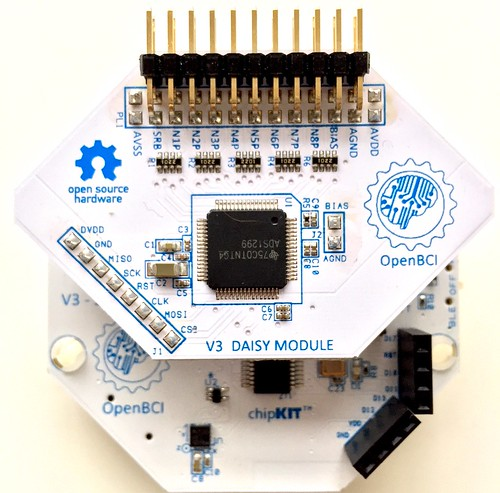
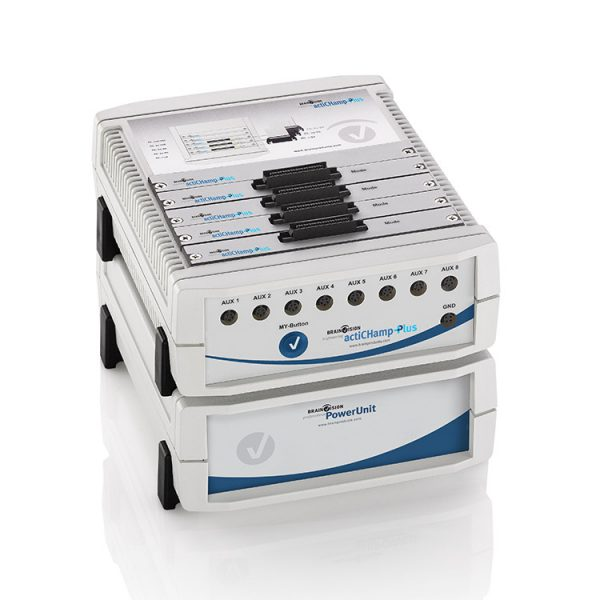
fix: LSL settings daemon<->tauri proxy, same pattern as EXG
- Rewrite daemon/lsl.ts to use daemonInvoke (gets Tauri fallback)
- Add LSL routes to invoke-proxy ROUTES map
- Add native daemon proxy Tauri commands for all LSL endpoints:
  lsl_discover, lsl_get_config, lsl_set_auto_connect, lsl_pair_stream,
  lsl_unpair_stream, lsl_get/set_idle_timeout, lsl_virtual_source_*,
  lsl_iroh_start/stop/status
- Add session control proxies: start_session (now #[tauri::command]),
  switch_session, cancel_session (were missing/broken)
- Add start_session/switch_session/cancel_session to invoke-proxy routes

diff --git a/src/lib/daemon/lsl.ts b/src/lib/daemon/lsl.ts
@@ -1,6 +1,6 @@
 // SPDX-License-Identifier: GPL-3.0-only
 
-import { daemonGet, daemonPost } from "./http";
+import { daemonInvoke } from "./invoke-proxy";
 
 export interface LslPairStreamRequest {
   sourceId: string;
@@ -31,17 +31,17 @@ interface LslDiscoverResponse {
 }
 
 export async function lslSetIdleTimeout(secs: number | null): Promise<void> {
-  await daemonPost("/v1/lsl/idle-timeout", { secs });
+  await daemonInvoke("lsl_set_idle_timeout", { secs });
 }
 
 export async function lslSetAutoConnect(enabled: boolean): Promise<void> {
-  await daemonPost("/v1/lsl/auto-connect", { enabled });
+  await daemonInvoke("lsl_set_auto_connect", { enabled });
 }
 
 export async function lslDiscover<T>(): Promise<T[]> {
   const [discovered, cfg] = await Promise.all([
-    daemonGet<LslDiscoverResponse[]>("/v1/lsl/discover"),
-    daemonGet<LslConfigResponse>("/v1/lsl/config").catch(() => ({ auto_connect: false, paired_streams: [] })),
+    daemonInvoke<LslDiscoverResponse[]>("lsl_discover"),
+    daemonInvoke<LslConfigResponse>("lsl_get_config").catch(() => ({ auto_connect: false, paired_streams: [] })),
   ]);
   const pairedIds = new Set(cfg.paired_streams.map((s) => s.source_id));
   const out = discovered.map((s) => ({
@@ -57,23 +57,23 @@ export async function lslDiscover<T>(): Promise<T[]> {
 }
 
 export async function lslConnect(name: string): Promise<void> {
-  await daemonPost("/v1/control/start-session", { target: `lsl:${name}` });
+  await daemonInvoke("start_session", { target: `lsl:${name}` });
 }
 
 export async function lslSwitchSession(name: string): Promise<void> {
-  await daemonPost("/v1/control/switch-session", { target: `lsl:${name}` });
+  await daemonInvoke("switch_session", { target: `lsl:${name}` });
 }
 
 export async function lslStartSecondary(name: string): Promise<void> {
-  await daemonPost("/v1/control/start-session", { target: `lsl:${name}` });
+  await daemonInvoke("start_session", { target: `lsl:${name}` });
 }
 
 export async function lslCancelSecondary(_sessionId: string): Promise<void> {
-  await daemonPost("/v1/control/cancel-session", {});
+  await daemonInvoke("cancel_session", {});
 }
 
 export async function lslPairStream(req: LslPairStreamRequest): Promise<void> {
-  await daemonPost("/v1/lsl/pair", {
+  await daemonInvoke("lsl_pair_stream", {
     source_id: req.sourceId,
     name: req.name,
     stream_type: req.streamType,
@@ -83,50 +83,50 @@ export async function lslPairStream(req: LslPairStreamRequest): Promise<void> {
 }
 
 export async function lslUnpairStream(sourceId: string): Promise<void> {
-  await daemonPost("/v1/lsl/unpair", { source_id: sourceId });
+  await daemonInvoke("lsl_unpair_stream", { source_id: sourceId });
 }
 
 export async function lslIrohStart<T>(): Promise<T> {
-  const out = await daemonPost<T>("/v1/lsl/iroh/start", {});
-  await daemonPost("/v1/control/start-session", { target: "lsl-iroh" }).catch(() => {});
+  const out = await daemonInvoke<T>("lsl_iroh_start", {});
+  await daemonInvoke("start_session", { target: "lsl-iroh" }).catch(() => {});
   return out;
 }
 
 export async function lslIrohStop(): Promise<void> {
-  await daemonPost("/v1/lsl/iroh/stop", {});
-  await daemonPost("/v1/control/cancel-session", {}).catch(() => {});
+  await daemonInvoke("lsl_iroh_stop", {});
+  await daemonInvoke("cancel_session", {}).catch(() => {});
 }
 
 export function lslIrohStatus<T>(): Promise<T> {
-  return daemonGet<T>("/v1/lsl/iroh/status");
+  return daemonInvoke<T>("lsl_iroh_status");
 }
 
 export async function lslVirtualSourceRunning(): Promise<boolean> {
-  const v = await daemonGet<{ running: boolean }>("/v1/lsl/virtual-source/running");
+  const v = await daemonInvoke<{ running: boolean }>("lsl_virtual_source_running");
   return !!v.running;
 }
 
 export async function lslStartVirtualSource(): Promise<boolean> {
-  const v = await daemonPost<{ started?: boolean }>("/v1/lsl/virtual-source/start", {});
+  const v = await daemonInvoke<{ started?: boolean }>("lsl_virtual_source_start", {});
   return !!v.started;
 }
 
 export async function lslStopVirtualSource(): Promise<boolean> {
-  const v = await daemonPost<{ was_running?: boolean }>("/v1/lsl/virtual-source/stop", {});
+  const v = await daemonInvoke<{ was_running?: boolean }>("lsl_virtual_source_stop", {});
   return !!v.was_running;
 }
 
 export function lslGetConfig<T>(): Promise<T> {
-  return daemonGet<T>("/v1/lsl/config");
+  return daemonInvoke<T>("lsl_get_config");
 }
 
 export async function lslGetIdleTimeout(): Promise<number | null> {
-  const v = await daemonGet<{ secs: number | null }>("/v1/lsl/idle-timeout");
+  const v = await daemonInvoke<{ secs: number | null }>("lsl_get_idle_timeout");
   return v.secs ?? null;
 }
 
 export function getStatus<T>(): Promise<T> {
-  return daemonGet<T>("/v1/status");
+  return daemonInvoke<T>("get_status");
 }
 
 export async function listSecondarySessions<T>(): Promise<T[]> {

diff --git a/src/lib/daemon/invoke-proxy.ts b/src/lib/daemon/invoke-proxy.ts
@@ -22,6 +22,9 @@ const ROUTES: Record<string, [typeof G | typeof P, string]> = {
   // Control
   retry_connect: [P, "/v1/control/retry-connect"],
   cancel_retry: [P, "/v1/control/cancel-retry"],
+  start_session: [P, "/v1/control/start-session"],
+  switch_session: [P, "/v1/control/switch-session"],
+  cancel_session: [P, "/v1/control/cancel-session"],
   lsl_cancel_secondary: [P, "/v1/control/cancel-session"],
 
   // Devices
@@ -148,6 +151,21 @@ const ROUTES: Record<string, [typeof G | typeof P, string]> = {
   get_hook_log_count: [G, "/v1/hooks/log-count"],
   suggest_hook_keywords: [P, "/v1/hooks/suggest-keywords"],
   suggest_hook_distances: [P, "/v1/hooks/suggest-distances"],
+
+  // LSL
+  lsl_discover: [G, "/v1/lsl/discover"],
+  lsl_get_config: [G, "/v1/lsl/config"],
+  lsl_set_auto_connect: [P, "/v1/lsl/auto-connect"],
+  lsl_pair_stream: [P, "/v1/lsl/pair"],
+  lsl_unpair_stream: [P, "/v1/lsl/unpair"],
+  lsl_get_idle_timeout: [G, "/v1/lsl/idle-timeout"],
+  lsl_set_idle_timeout: [P, "/v1/lsl/idle-timeout"],
+  lsl_virtual_source_running: [G, "/v1/lsl/virtual-source/running"],
+  lsl_virtual_source_start: [P, "/v1/lsl/virtual-source/start"],
+  lsl_virtual_source_stop: [P, "/v1/lsl/virtual-source/stop"],
+  lsl_iroh_start: [P, "/v1/lsl/iroh/start"],
+  lsl_iroh_stop: [P, "/v1/lsl/iroh/stop"],
+  lsl_iroh_status: [G, "/v1/lsl/iroh/status"],
 
   // DnD / Goals
   get_dnd_config: [G, "/v1/settings/dnd/config"],

diff --git a/src-tauri/src/daemon_cmds.rs b/src-tauri/src/daemon_cmds.rs
@@ -289,7 +289,8 @@ pub(crate) fn cancel_retry() -> Result<StatusResponse, String> {
     )
 }
 
-pub(crate) fn start_session(target: Option<String>) -> Result<StatusResponse, String> {
+#[tauri::command]
+pub fn start_session(target: Option<String>) -> Result<StatusResponse, String> {
     let base_url = daemon_base_url();
     let token = load_daemon_token()?;
     post_json_with_auth_response(
@@ -1119,3 +1120,130 @@ pub fn trigger_reembed() -> Result<serde_json::Value, String> {
     let token = load_daemon_token()?;
     post_json_with_auth_response(&base_url, &token, "/v1/models/trigger-reembed", &serde_json::json!({}))
 }
+
+// ── LSL daemon proxies ──────────────────────────────────────────────────────
+
+/// Proxy: GET /v1/lsl/discover
+#[tauri::command]
+pub fn lsl_discover() -> Result<serde_json::Value, String> {
+    let base_url = daemon_base_url();
+    let token = load_daemon_token()?;
+    fetch_json_with_auth(&base_url, &token, "/v1/lsl/discover")
+}
+
+/// Proxy: GET /v1/lsl/config
+#[tauri::command]
+pub fn lsl_get_config() -> Result<serde_json::Value, String> {
+    let base_url = daemon_base_url();
+    let token = load_daemon_token()?;
+    fetch_json_with_auth(&base_url, &token, "/v1/lsl/config")
+}
+
+/// Proxy: POST /v1/lsl/auto-connect
+#[tauri::command]
+pub fn lsl_set_auto_connect(enabled: bool) -> Result<serde_json::Value, String> {
+    let base_url = daemon_base_url();
+    let token = load_daemon_token()?;
+    post_json_with_auth_response(&base_url, &token, "/v1/lsl/auto-connect", &serde_json::json!({"enabled": enabled}))
+}
+
+/// Proxy: POST /v1/lsl/pair
+#[tauri::command]
+pub fn lsl_pair_stream(source_id: String, name: String, stream_type: String, channels: u32, sample_rate: f64) -> Result<serde_json::Value, String> {
+    let base_url = daemon_base_url();
+    let token = load_daemon_token()?;
+    post_json_with_auth_response(&base_url, &token, "/v1/lsl/pair", &serde_json::json!({
+        "source_id": source_id, "name": name, "stream_type": stream_type,
+        "channels": channels, "sample_rate": sample_rate
+    }))
+}
+
+/// Proxy: POST /v1/lsl/unpair
+#[tauri::command]
+pub fn lsl_unpair_stream(source_id: String) -> Result<serde_json::Value, String> {
+    let base_url = daemon_base_url();
+    let token = load_daemon_token()?;
+    post_json_with_auth_response(&base_url, &token, "/v1/lsl/unpair", &serde_json::json!({"source_id": source_id}))
+}
+
+/// Proxy: GET /v1/lsl/idle-timeout
+#[tauri::command]
+pub fn lsl_get_idle_timeout() -> Result<serde_json::Value, String> {
+    let base_url = daemon_base_url();
+    let token = load_daemon_token()?;
+    fetch_json_with_auth(&base_url, &token, "/v1/lsl/idle-timeout")
+}
+
+/// Proxy: POST /v1/lsl/idle-timeout
+#[tauri::command]
+pub fn lsl_set_idle_timeout(secs: serde_json::Value) -> Result<serde_json::Value, String> {
+    let base_url = daemon_base_url();
+    let token = load_daemon_token()?;
+    post_json_with_auth_response(&base_url, &token, "/v1/lsl/idle-timeout", &serde_json::json!({"secs": secs}))
+}
+
+/// Proxy: GET /v1/lsl/virtual-source/running
+#[tauri::command]
+pub fn lsl_virtual_source_running() -> Result<serde_json::Value, String> {
+    let base_url = daemon_base_url();
+    let token = load_daemon_token()?;
+    fetch_json_with_auth(&base_url, &token, "/v1/lsl/virtual-source/running")
+}
+
+/// Proxy: POST /v1/lsl/virtual-source/start
+#[tauri::command]
+pub fn lsl_virtual_source_start() -> Result<serde_json::Value, String> {
+    let base_url = daemon_base_url();
+    let token = load_daemon_token()?;
+    post_json_with_auth_response(&base_url, &token, "/v1/lsl/virtual-source/start", &serde_json::json!({}))
+}
+
+/// Proxy: POST /v1/lsl/virtual-source/stop
+#[tauri::command]
+pub fn lsl_virtual_source_stop() -> Result<serde_json::Value, String> {
+    let base_url = daemon_base_url();
+    let token = load_daemon_token()?;
+    post_json_with_auth_response(&base_url, &token, "/v1/lsl/virtual-source/stop", &serde_json::json!({}))
+}
+
+/// Proxy: POST /v1/lsl/iroh/start
+#[tauri::command]
+pub fn lsl_iroh_start() -> Result<serde_json::Value, String> {
+    let base_url = daemon_base_url();
+    let token = load_daemon_token()?;
+    post_json_with_auth_response(&base_url, &token, "/v1/lsl/iroh/start", &serde_json::json!({}))
+}
+
+/// Proxy: POST /v1/lsl/iroh/stop
+#[tauri::command]
+pub fn lsl_iroh_stop() -> Result<serde_json::Value, String> {
+    let base_url = daemon_base_url();
+    let token = load_daemon_token()?;
+    post_json_with_auth_response(&base_url, &token, "/v1/lsl/iroh/stop", &serde_json::json!({}))
+}
+
+/// Proxy: GET /v1/lsl/iroh/status
+#[tauri::command]
+pub fn lsl_iroh_status() -> Result<serde_json::Value, String> {
+    let base_url = daemon_base_url();
+    let token = load_daemon_token()?;
+    fetch_json_with_auth(&base_url, &token, "/v1/lsl/iroh/status")
+}
+
+/// Proxy: POST /v1/control/switch-session
+#[tauri::command]
+pub fn switch_session(target: String) -> Result<serde_json::Value, String> {
+    let base_url = daemon_base_url();
+    let token = load_daemon_token()?;
+    post_json_with_auth_response(&base_url, &token, "/v1/control/switch-session", &serde_json::json!({"target": target}))
+}
+
+/// Proxy: POST /v1/control/cancel-session
+#[tauri::command]
+pub fn cancel_session() -> Result<serde_json::Value, String> {
+    let base_url = daemon_base_url();
+    let token = load_daemon_token()?;
+    post_json_with_auth_response(&base_url, &token, "/v1/control/cancel-session", &serde_json::json!({}))
+}
+
+

diff --git a/src-tauri/src/lib.rs b/src-tauri/src/lib.rs
@@ -195,6 +195,12 @@ use daemon_cmds::{
     get_exg_catalog, get_eeg_model_config, get_eeg_model_status,
     set_eeg_model_config, trigger_weights_download, cancel_weights_download,
     estimate_reembed, trigger_reembed,
+    // LSL daemon proxies
+    lsl_discover, lsl_get_config, lsl_set_auto_connect, lsl_pair_stream,
+    lsl_unpair_stream, lsl_get_idle_timeout, lsl_set_idle_timeout,
+    lsl_virtual_source_running, lsl_virtual_source_start, lsl_virtual_source_stop,
+    lsl_iroh_start, lsl_iroh_stop, lsl_iroh_status,
+    start_session, switch_session, cancel_session,
 };
 
 mod settings_cmds;
@@ -1354,6 +1360,22 @@ pub fn run() {
             cancel_weights_download,
             estimate_reembed,
             trigger_reembed,
+            lsl_discover,
+            lsl_get_config,
+            lsl_set_auto_connect,
+            lsl_pair_stream,
+            lsl_unpair_stream,
+            lsl_get_idle_timeout,
+            lsl_set_idle_timeout,
+            lsl_virtual_source_running,
+            lsl_virtual_source_start,
+            lsl_virtual_source_stop,
+            lsl_iroh_start,
+            lsl_iroh_stop,
+            lsl_iroh_status,
+            start_session,
+            switch_session,
+            cancel_session,
             pick_exg_weights_file,
             pick_gguf_file,
             // LLM catalog (compiled in regardless; no-op stubs when `llm` feature absent)

diff --git a/crates/skill-data/src/device.rs b/crates/skill-data/src/device.rs
@@ -646,11 +646,11 @@ pub fn supported_companies() -> Vec<SupportedCompany> {
         SupportedCompany {
             id: "gtec".into(),
             name_key: "settings.supportedDevices.company.gtec".into(),
-            logo: "/logos/gtec.svg".into(),
+            logo: "/logos/gtec.png".into(),
             devices: vec![SupportedDevice {
                 name_key: "settings.supportedDevices.device.unicornHybridBlack".into(),
                 ios_only: false,
-                image: "/devices/gtec-unicorn.svg".into(),
+                image: "/devices/gtec-unicorn.jpg".into(),
             }],
             instruction_keys: vec![
                 "settings.supportedDevices.instruction.gtec1".into(),
@@ -827,7 +827,7 @@ pub fn supported_companies() -> Vec<SupportedCompany> {
         SupportedCompany {
             id: "brainvision".into(),
             name_key: "settings.supportedDevices.company.brainvision".into(),
-            logo: "/logos/brainvision.svg".into(),
+            logo: "/logos/brainvision.jpg".into(),
             devices: vec![SupportedDevice {
                 name_key: "settings.supportedDevices.device.brainvisionRda".into(),
                 ios_only: false,